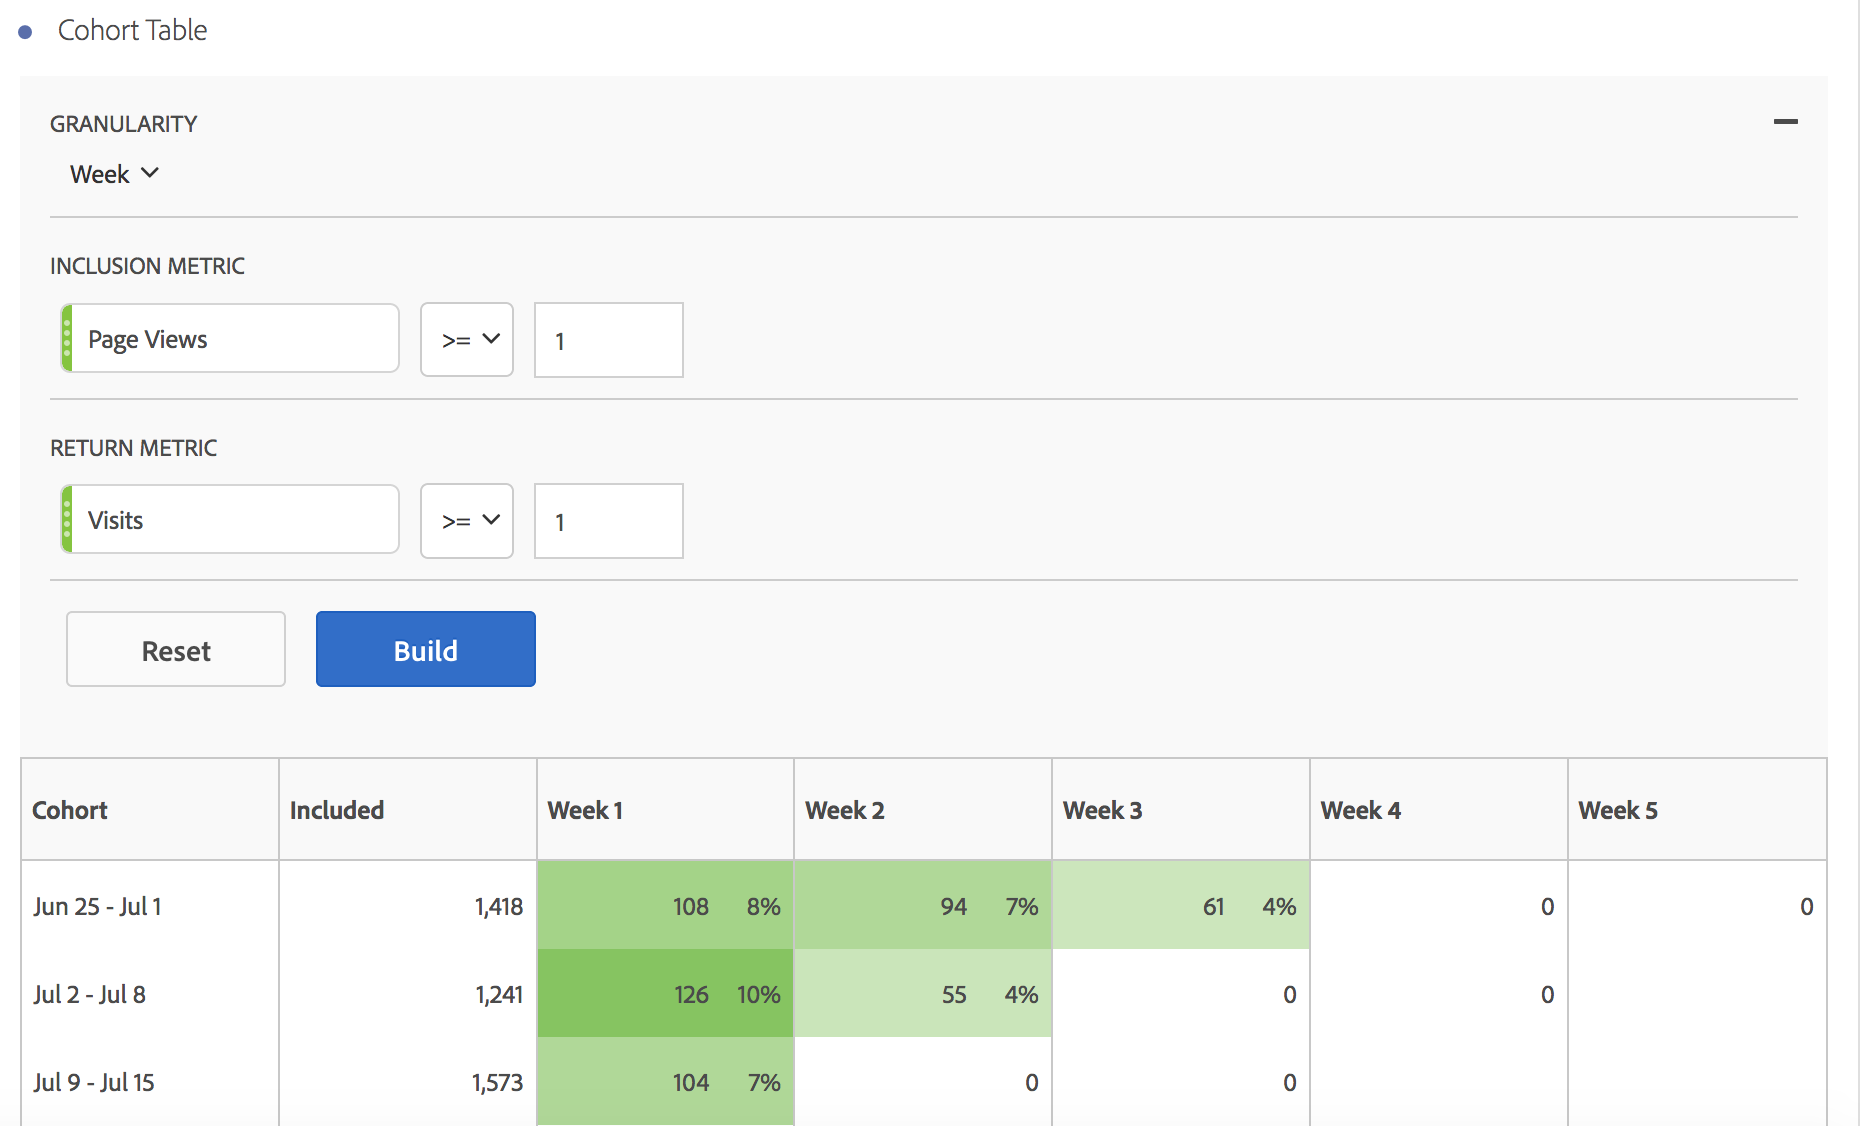
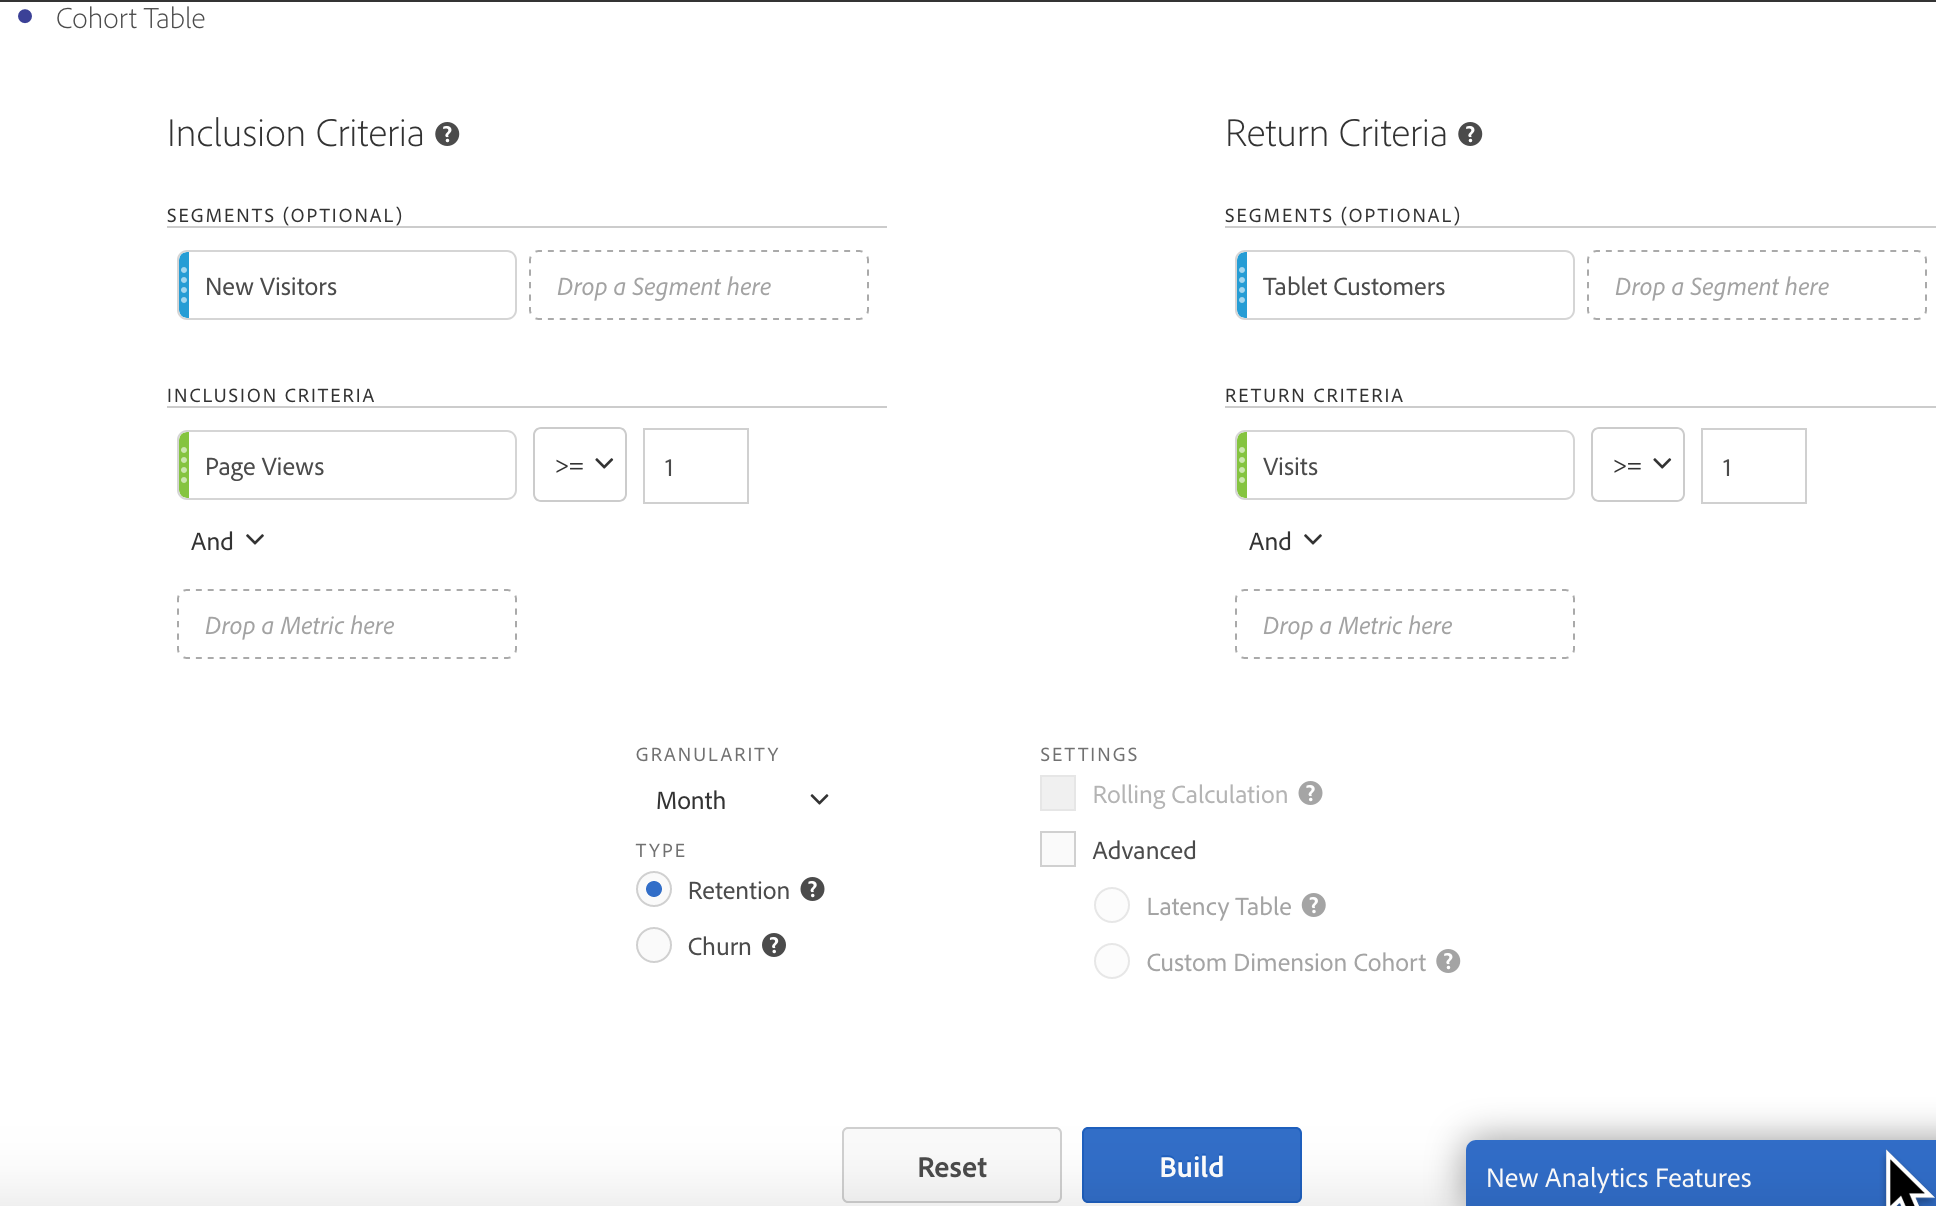
January updates to ANalysis Workspace

diff --git a/help/analyze/analysis-workspace/visualizations/cohort-table/t-cohort.md b/help/analyze/analysis-workspace/visualizations/cohort-table/t-cohort.md
@@ -12,32 +12,25 @@ internal: n
 snippet: y
 ---
 
-# Run a cohort analysis report
+# Configure a Cohort Analysis report
 
 Create a cohort and run a cohort analysis report in Analysis Workspace.
 
-1. In Analysis Workspace, click the **[!UICONTROL Panels]** icon in the left rail and drag a **[!UICONTROL Blank Panel]** to the canvas.
-
-   ![](assets/blank-panel.png)
-
-1. Click **[!UICONTROL Visualizations]** in the left rail, then drag a **[!UICONTROL Cohort Table]** to the canvas.
-
-   ![](assets/cohort_new.png)
-
-1. Specify a date range.
-1. Add metrics to the **[!UICONTROL Inclusion]** and **[!UICONTROL Return]** fields.
-
-   These metrics group your users into a granularity buckets, based on an activity (such as placing an order).
+1. In Analysis Workspace, click the **[!UICONTROL Visualizations]** icon in the left rail and drag a **[!UICONTROL Cohort Table]** to the canvas.
 
    ![](assets/cohort-table.png)
 
+1. Define the **[!UICONTROL Inclusion Criteria]**, **[!UICONTROL Return Criteria]**, **[!UICONTROL Cohort Type]**, and **[!UICONTROL Settings]** as defined in the table below.
+
 | Element | Description |
 |--- |--- |
-|Granularity|The time granularity of Day, Week, Month, Quarter, or Year.|
-|Inclusion Metric|The metric that places a user in a cohort. For example, if the inclusion metric is Orders, only users who placed an order during the time range of the cohort analysis will be included in the initial cohorts.|
-|Return Metric|The metric that indicates the user has been retained. For example, if the return metric is Video Views, only users who viewed videos during subsequent time periods (after the period in which they were added to a cohort) will be represented as retained. Another metric that quantifies retention is Visits.|
+|**[!UICONTROL Inclusion Criteria]**|You can apply up to 10 inclusion segments and up to 3 inclusion metrics. The metric specifies what places a user in a cohort. For example, if the inclusion metric is Orders, only users who placed an order during the time range of the cohort analysis will be included in the initial cohort.<br>The default operator between metrics is AND, but you can change it to OR. In addition, you can add numeric filtering to these metrics. For example: "Visits >= 1".</br>|
+|**[!UICONTROL Return Criteria]**|You can apply up to 10 return segments and up to 3 return metrics. The metric indicates whether the user has been retained (retention) or not (churn). For example, if the return metric is Video Views, only users who viewed videos during subsequent time periods (after the period in which they were added to a cohort) will be represented as retained. Another metric that quantifies retention is Visits.|
+|**[!UICONTROL Granularity]**|The time granularity of Day, Week, Month, Quarter, or Year.|
+|**[!UICONTROL Type]**|**[!UICONTROL Retention]**(default): A retention cohort measures how well your visitor cohorts return to your property over time. This is the standard cohort that we have always had and indicates return and repeat user behavior. A Retention Cohort is indicated by the color green in the table.<br>**[!UICONTROL Churn]**: A churn (also known as "attrition" or "fallout") cohort measures how your visitor cohorts fall out of your property over time. Churn = 1 - Retention. Churn is a good measure of stickiness as well as opportunity by showing you how frequently customers do not come back. You can use churn to analyze and identify areas of focus: which cohort segments could use some attention. A Churn Cohort is indicated by the color red in the table (similar to fallout in our **[!UICONTROL Flow]** visualization).</br>|
+|**[!UICONTROL Settings]**|**[!UICONTROL Rolling Calculation]**: Calculate retention or churn based on the previous column, rather than the Included column (default). Rolling Calculation changes the calculation method for your "return" periods. The normal calculation independently finds users who meet "return" criteria and were part of the inclusion period, regardless of whether or not they were in the cohort for the previous period. Instead, Rolling Calculation finds users who meet "return" criteria and were part of the previous period. Therefore, Rolling Calculation filters and funnels the users who continually meet the "return" criteria period over period.</br><br>**[!UICONTROL Latency Table]**: A latency table measures the time that has elapsed before and after the inclusion event occurred. Latency is great to use for pre/post analysis. For example, if you have an upcoming product or campaign launch and you want to track behavior before as well as see how it performs after, the Latency table will display the pre and post behavior side by side to see the direct impact. The pre-inclusion cells in the Latency Table are calculated by users who meet the "inclusion" criteria on the inclusion period and then meet the "return" criteria in the periods before the inclusion period. Note that Latency tables and Custom Dimension Cohort cannot be used together.</br><br>**[!UICONTROL Custom Dimension Cohort]**: Create cohorts based on the selected dimension, rather than time-based cohorts (default). Many customers want to analyze their cohorts by something other than time and the new Custom Dimension Cohort feature provides you with the flexibility to build cohorts based on dimensions of their choosing. Use dimensions such as marketing channel, campaign, product, page, region, or any other dimension in Adobe Analytics to show how retention changes based on the different values of these dimensions.</br><br>After choosing the Custom Dimension Cohort option, you can drag and drop whichever dimension you want into the drop zone. This allows you to compare similar dimension items across the same time period. For example, you can compare performance of cities side by side, products, campaigns, etc. It will return your top 14 dimension items. However, you can use a filter (access it by hovering on the right of the dimension that was dragged on) to display only desired dimension items. A Custom Dimension Cohort cannot be used with the Latency Table feature.</br>|
 
-1. Click **[!UICONTROL Run Report]**.
+1. Click **[!UICONTROL Build]**.
 
    ![Step Result](assets/cohort-report.png)
 
@@ -46,10 +39,7 @@ Create a cohort and run a cohort analysis report in Analysis Workspace.
 
    Select cells (contiguous or noncontiguous), then right-click > **[!UICONTROL Create Segment From Selection]**.
 
-   ![Step Result](assets/cohort-segment-select.png)
-
-   This example segment would show all the visitors in January 2015, month 1 and 2. 
-1. On the [Segment Builder](https://marketing.adobe.com/resources/help/en_US/analytics/segment/?f=seg_build), further edit the segment, then click **[!UICONTROL Save]**.
+1. In the [Segment Builder](https://marketing.adobe.com/resources/help/en_US/analytics/segment/?f=seg_build), further edit the segment, then click **[!UICONTROL Save]**.
 
    The saved segment is available for use in the [!UICONTROL Segment] panel in Analysis Workspace. 
 1. Name and save your cohort project.

diff --git a/help/analyze/analysis-workspace/visualizations/cohort-table/cohort-use-cases.md b/help/analyze/analysis-workspace/visualizations/cohort-table/cohort-use-cases.md
@@ -44,4 +44,24 @@ Using this cohort analysis, you could see, for example, that anywhere between 8%
 
 Recognizing that you need to not lose potential customers in month three, you set up an email campaign designed to go out in the middle of month three to a sample of users, offering a $50 coupon to users who have not yet upgraded.
 
-Check back with your cohort analysis report a few months later. For cohorts formed after the launch of the campaign, conversion to paid Creative Cloud subscriptions in month three has risen from 4-5% to 13-14%, resulting in hundreds of thousands of dollars per cohort, for every monthly cohort that hits month three from that point forward. 
+Check back with your cohort analysis report a few months later. For cohorts formed after the launch of the campaign, conversion to paid Creative Cloud subscriptions in month three has risen from 4-5% to 13-14%, resulting in hundreds of thousands of dollars per cohort, for every monthly cohort that hits month three from that point forward.
+
+## Complex Cohort Segments use case
+
+A major hotel chain targets multiple customer groups for promotions and tracks against performance. In order to identify the best groups of user cohorts to target, they want to create very specific cohort groups. Using the augmented Inclusion and Return Criteria within Cohort Tables, they are able to define just the right cohort groupings with multiple metrics and segments to identify underperforming customers groups in order to target them with promotions and deals to increase bookings.
+
+## App Version Adoption use case
+
+A large insurance company drives a lot of customer engagement through the use of its mobile app. However, as new features are added to their app, it is critical that their customers upgrade to the latest app version. They can analyze and compare all of their app versions side-by-side using Custom Dimension Cohort to see which customers on which app version to target. Additionally, they can track both retention and churn to see if specific app versions are driving customers away from using the app over time. Through mobile messaging efforts, they can re-engage with these users to get them to upgrade to the latest version to take advantage of their latest features.
+
+## Campaign Stickiness use case
+
+A multinational media company uses targeted campaigns to drive users to their various platforms to drive engagement. Ad spend per platform is based off customer engagement and retention; therefore, successful campaigns are critical to the success of their business. They use our new Custom Dimension Cohort feature in Cohort Tables to compare various campaigns side-by-side to identify which campaigns are most effective at acquiring and retaining users to increase engagement. They can then identify which aspects make a campaign successful and apply it to other campaigns to increase engagement across their various platform.
+
+## Product Launch use case
+
+A large apparel retailer has many specific customer segments that drive large portions of revenue for their business. Each segment has specific products designed and created with the segment in mind. With each product launch, they want to know how the new product has boosted sales to various cohorts over time. Using the new Latency Table setting in Cohort tables, they are able to analyze a given customer segment’s pre-launch and post-launch behavior and revenue. Using this information, they can identify which products are driving new revenue and which are not gaining traction with customers.
+
+## Individual Stickiness - Most Loyal Users use case
+
+A major airline derives the majority of their success and revenue from repeat and loyal customers. In many cases, their loyal travelers comprise the majority of their revenue and retaining those customers is critical to their long-term success. Identifying their most loyal and consistent customers can often be difficult. However, using the new Rolling Calculation setting in Cohort tables, they were able to analyze loyal customer segments and find out which travelers were repeat purchasers month-over-month. They were then able to target these travelers with rewards and perks for their loyalty. Additionally, by switching the Cohort type from retention to churn, they were also able to identify which customers were not repeat purchasers month-over-month and target those segments with promotions in order to re-engage with them and ensure they remain loyal customers in the future.

diff --git a/help/analyze/analysis-workspace/visualizations/cohort-table/cohort-analysis.md b/help/analyze/analysis-workspace/visualizations/cohort-table/cohort-analysis.md
@@ -16,12 +16,6 @@ A *`cohort`* is a group of people sharing common characteristics over a specifie
 
 After creating a cohort report, you can curate its components (specific dimensions, metrics, and segments), then share the cohort report with anyone. See [Curate and Share](../../../../analyze/analysis-workspace/curate-share/curate.md#concept_4A9726927E7C44AFA260E2BB2721AFC6)
 
-**Example cohort report**
-
-A cohort report returns visitors. Each data cell shows the raw number of visitors in the cohort who did the action during that time period.
-
-![Step Result](assets/cohort-report.png)
-
 Examples of what you can do with cohort analysis:
 
 * Launch campaigns designed to spur a desired action. 
@@ -29,4 +23,44 @@ Examples of what you can do with cohort analysis:
 * Recognize when to end a trial or an offer, to maximize value. 
 * Gain ideas for A/B testing in areas such as pricing, upgrade path, and so on. 
 * View a Cohort Analysis report within a Guided Analysis report.
+* Recognize when to end a trial or an offer, to maximize value.
+* Gain ideas for A/B testing in areas such as pricing, upgrade path, and so on.
+
+Cohort Analysis is available for all Analytics customers with access rights to Analysis Workspace.
+
+## Cohort Analysis capabilities
+
+In January 2019, Adobe released a new and significantly enhanced version of Cohort Analysis within Analysis Workspace. It allows for much more fine-tuned control over the cohorts you are building. Here are the featured enhancements:
+
+### Retention Table
+
+A retention cohort report returns visitors: each data cell shows the raw number and percentage of visitors in the cohort who did the action during that time period. You can include up to 3 metrics and up to 10 segments.
+
+![](assets/retention-report.png)
+
+### Churn Table
+
+A Churn cohort is the inverse of a retention table and shows the visitor who fell out or never met the return criteria for your cohort over time. You can include up to 3 metrics and up to 10 segments.
+
+![](assets/churn-report.png)
+
+### Rolling Calculation
+
+Lets you calculate retention or churn based on the previous column, not the included column. 
+
+![](assets/cohort-rolling-calculation.png)
+
+### Latency Table
+
+Measures the time that has elapsed before and after the inclusion event occurred. This is an excellent tool for pre/post analysis. The "Included" column is in the center of the table and time periods before and after the inclusion event are shown on both sides. 
+
+![](assets/cohort-latency.png)
+
+### Custom Dimension Cohort
+
+Create cohorts based on a selected dimension, and not time-based cohorts, which are the default. Use dimensions such as marketing channel, campaign, product, page, region, or any other dimension in Adobe Analytics to show how retention changes based on the different values of these dimensions.
+
+![](assets/cohort-customizable-cohort-row.png)
+
+For instructions on how to set up and run a cohort report, go to Configure a Cohort Analysis report.
 

diff --git a/help/analyze/analysis-workspace/new-features-in-analysis-workspace.md b/help/analyze/analysis-workspace/new-features-in-analysis-workspace.md
@@ -20,7 +20,7 @@ New features and enhancements released on January 17, 2019.
 
 | Feature | Description |
 |--- |--- |
-|Cohort Analysis|Major improvements to Cohort Analysis let you:|
+|Cohort Analysis|Major improvements to Cohort Analysis let you:<ul><li>Apply a segment inclusion and return metrics separately. </li><li>Show churn instead of retention.</li><li>Show latency tables (time elapsed before and after an inclusion event).</li><li>Customize cohort dimension (to group visitors based on an eVar, not just time).</li><li>Do a rolling cohort calculation: calculate retention/churn based on prior time period, not original cohort. </li><li>Add in multiple metrics in inclusion & return fields, as well as apply segments. (Calculated metrics are not supported)</li></ul>|
 |View Density|This new setting lets you see more data on a single screen by reducing the vertical padding of the left rail, freeform tables and cohort tables. Accessible via Project > Project Info & Settings.|
 |Support for multi-valued variables in Attribution IQ|Some dimensions in Analytics can contain multiple values on a single hit, such as listVars, the product variable, list props, or merchandising eVars. Analysis Workspace lets you apply Attribution IQ to any of these types of variables at the hit level.|
 |Performance improvements|Speed improvements to breakdown visualizations - projects with lots of breakdowns will load faster.|

diff --git a/help/analyze/TOC.md b/help/analyze/TOC.md
@@ -42,7 +42,6 @@ user-guide-title: Analytics Analyze Guide
         + [Manage data sources](analysis-workspace/visualizations/t-sync-visualization.md)
         + [Freeform table](analysis-workspace/visualizations/freeform-table.md)
         + Cohort Table {#cohort-table}
-            + [Cohort table overview](analysis-workspace/visualizations/cohort-table/cohort-table.md)
             + [What is cohort analysis?](analysis-workspace/visualizations/cohort-table/cohort-analysis.md)
             + [Run a cohort analysis report](analysis-workspace/visualizations/cohort-table/t-cohort.md)
             + [Cohort analysis use cases](analysis-workspace/visualizations/cohort-table/cohort-use-cases.md)
